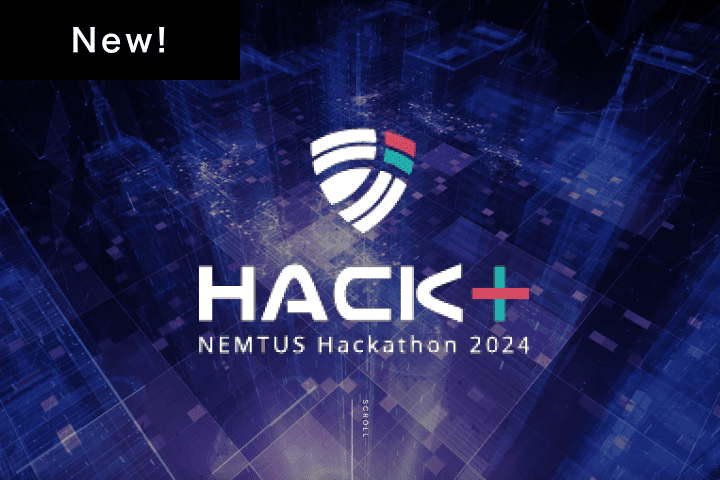
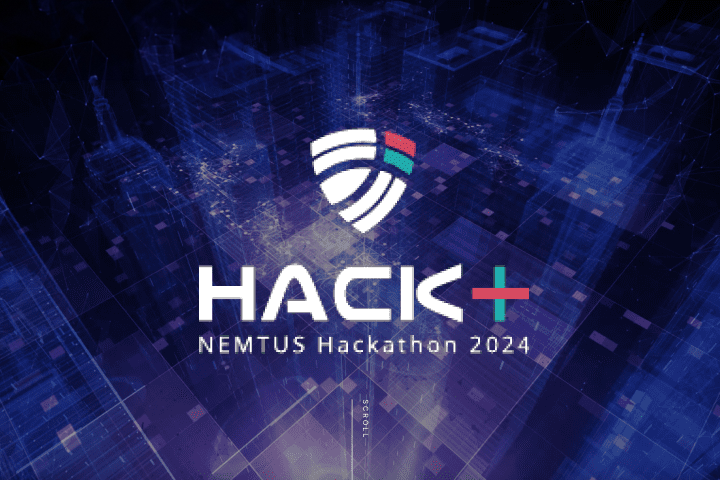
fix: for 2025

Changed region(s): [[0.0917, 0.0, 0.3361, 0.1875], [0.0306, 0.0, 0.0917, 0.0312], [0.0, 0.125, 0.0306, 0.1562]]

diff --git a/public/index.html b/public/index.html
@@ -23,6 +23,7 @@
 		<div class="header-content-area">
 			<div class="header-content-area-inner">
 				<ul class="header-list">
+					<li><a href="https://hackathon-2025.nemtus.com/">HACK+2025</a></li>
 					<li><a href="https://hackathon-2024.nemtus.com/">HACK+2024</a></li>
 					<li><a href="https://hackathon-2023.nemtus.com/">HACK+2023</a></li>
 					<li><a href="https://hackathon-2022.nemtus.com/">HACK+2022</a></li>
@@ -30,7 +31,7 @@
 				</ul>
 
 				<div class="header-logo">
-					<img src="./assets/img/header-logo.png" alt="HACK+ NEMTUS Hackathon 2024">
+					<img src="./assets/img/header-logo.png" alt="HACK+ NEMTUS Hackathon 2025">
 				</div>
 
 				<div class="scroll">SCROLL</div>
@@ -49,6 +50,7 @@
 
 		<div class="drawer-content">
 			<ul class="drawer-content-items">
+				<li class="drawer-content-item"><a href="https://hackathon-2025.nemtus.com/">HACK+2025</a></li>
 				<li class="drawer-content-item"><a href="https://hackathon-2024.nemtus.com/">HACK+2024</a></li>
 				<li class="drawer-content-item"><a href="https://hackathon-2023.nemtus.com/">HACK+2023</a></li>
 				<li class="drawer-content-item"><a href="https://hackathon-2022.nemtus.com/">HACK+2022</a></li>
@@ -64,6 +66,14 @@
 			<div class="usual__inner">
 				<h2 class="usual__title">ハッカソン履歴一覧</h2>
 				<div class="usual__items fuwa">
+					<a href="https://hackathon-2025.nemtus.com/" class="usual__item">
+						<div class="usual__item-img"><img src="./assets/img/hack-2025-new.png" alt="HACK+2025"></div>
+						<p class="usual__item-title">HACK+2025</p>
+						<p class="usual__item-text">
+							2テーマ<br>
+							～お笑い・地方創生～
+						</p>
+					</a>
 					<a href="https://hackathon-2024.nemtus.com/" class="usual__item">
 						<div class="usual__item-img"><img src="./assets/img/hack-2024.png" alt="HACK+2024"></div>
 						<p class="usual__item-title">HACK+2024</p>
@@ -92,6 +102,34 @@
 			</div>
 		</section>
 
+		<section class="hack-2025">
+			<div class="hack__inner">
+				<div class="hack__left fuwa">
+					<div class="hack__logo">
+						<img src="./assets/img/logo-2025.png" alt="HACK+ NEMTUS Hackathon 2025">
+					</div>
+					<p class="hack__title">
+						テーマ<br>
+						<span>～お笑い・地方創生～</span>
+					</p>
+					<p class="hack__text">
+						日本文化の1つとして多くの人々に愛される「お笑い」には、そのユニークさや共感を通じて人と人をつなげる力があると考え、テーマ1では「お笑い」を軸に、エンターテイメント体験に新たな価値をもたらすプロダクトを募集します。
+					</p>
+					<p class="hack__text">
+						また、テーマ2の地方創生においては、地方独自の魅力を引き出しながら経済活動やコミュニティの活性化を目指すことが求められると考えます。ブロックチェーンを活用し透明性や信頼性を確保することで、どのような貢献ができるか？2024年現在、未だにクリティカルな解を持たないこの領域で、ぜひあなたのクリエイティビティを発揮してください。
+					</p>
+				</div>
+				<div class="hack__right fuwa">
+					<p class="hack__text-2">
+						NEMTUS Hackathon HACK+ 2025」は、ブロックチェーン技術の可能性を最大限に引き出し、実社会における課題解決を目指すNEMTUS主催の第4回目のハッカソンイベントです。参加者は多様なアイディアや技術を持ち寄り、競い合いながら、ブロックチェーンの経済圏・コミュニティを活性化し、技術普及を加速させます。ハッカソンでは、実際の社会問題を解決し、人々の生活にポジティブな影響をもたらすブロックチェーンアプリケーションやシステムの開発を重視します。
+					</p>
+					<div class="hack__button-container">
+						<a href="https://hackathon-2025.nemtus.com/" class="button">HACK+2025の詳細を見る</a>
+					</div>
+				</div>
+			</div>
+		</section>
+
 		<section class="hack-2024">
 			<div class="hack__inner">
 				<div class="hack__left fuwa">
@@ -103,15 +141,30 @@
 						<span>～実社会における課題解決～</span>
 					</p>
 					<p class="hack__text">
-						ブロックチェーン技術はその革新性やポテンシャルを謳うものの、具体的な社会的価値の実現までが見えにくい現状があります。NEMTUS主催の第3回目ハッカソンとなる“Real Impact”では、単なる技術的な実験ではなく、実際の社会問題を解決し、人々の生活にポジティブな影響をもたらすブロックチェーンアプリケーションやシステムの開発を重視します。
-					</p>
-				</div>
-				<div class="hack__right fuwa">
-					<p class="hack__text-2">
-						NEMTUS Hackathon HACK+ 2024」は、ブロックチェーン技術の可能性を最大限に引き出し、実社会における課題解決を目指すハッカソンイベントです。参加者は多様なアイディアや技術を持ち寄り、競い合いながら、ブロックチェーンの経済圏・コミュニティを活性化し、技術普及を加速させます。
+						ブロックチェーン技術はその革新性やポテンシャルを謳うものの、具体的な社会的価値の実現までが見えにくい現状があり、NEMTUS主催の第3回目ハッカソン“Real Impact”では、単なる技術的な実験ではなく、実際の社会問題を解決し、人々の生活にポジティブな影響をもたらすブロックチェーンアプリケーションやシステムの開発を重視したハッカソンが開催されました。
 					</p>
 					<div class="hack__button-container">
 						<a href="https://hackathon-2024.nemtus.com/" class="button">HACK+2024の詳細を見る</a>
+					</div>
+				</div>
+				<div class="hack__right hack__right-2 fuwa">
+					<div class="hack__right-img">
+						<img src="./assets/img/img-2024.png" alt="CryptoPiTouch NFCを利用したクリプトタッチ決済ツールの開発">
+					</div>
+					<p class="hack__right-title">
+						概要
+					</p>
+					<p class="hack__text-2">
+						NFCを活用したクリプトタッチ決済システム。決済情報を受け渡すための端末機器と、端末機器と通信するモバイルアプリで構成されている。Symbol, Ethereum, Astarチェーンでテスト済。
+					</p>
+					<p class="hack__right-title hack__right-title-2">
+						評価理由
+					</p>
+					<p class="hack__text-2">
+						決済というユースケースで、Symbolブロックチェーンだけでなくその他のチェーンまで対応し、さらに独自デバイスからアプリまでしっかり作りこまれており、本ハッカソンのテーマである「Real Impact」をとても強く感じることができた力作。様々な店舗に導入されたり、決済以外のユースケースでも活用されたりといった未来につながることが期待を集めた。
+					</p>
+					<div class="hack__button-container">
+						<a href="https://nemtus-hackathon.web.app/years/2024/awards" class="button">HACK+2024の授賞作品を見る</a>
 					</div>
 				</div>
 			</div>

diff --git a/public/assets/css/style.css b/public/assets/css/style.css
@@ -280,6 +280,14 @@ header {
 	text-align: center;
 }
 
+.hack-2025 {
+	background: url(../img/bg-2025.png) no-repeat center center/cover;
+	background-attachment: fixed;
+	height: 100vh;
+	min-height: 934px;
+	position: relative;
+}
+
 .hack-2024 {
 	background: url(../img/bg-2024.png) no-repeat center center/cover;
 	background-attachment: fixed;
@@ -610,6 +618,11 @@ footer {
 	font-size: 4.2666666667vw;
 	line-height: 6.4vw;
 	margin-top: 0vw;
+}
+
+.hack-2025 {
+	height: auto;
+	min-height: auto;
 }
 
 .hack-2024 {
